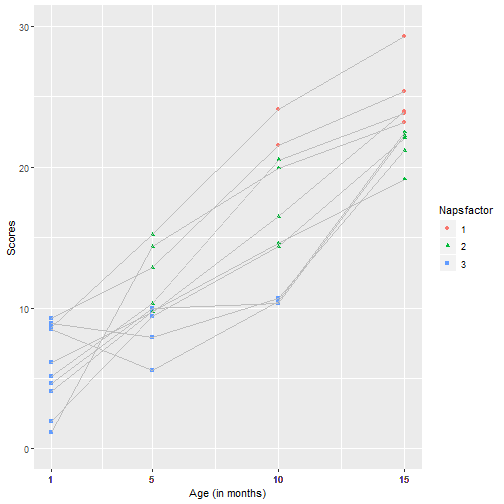
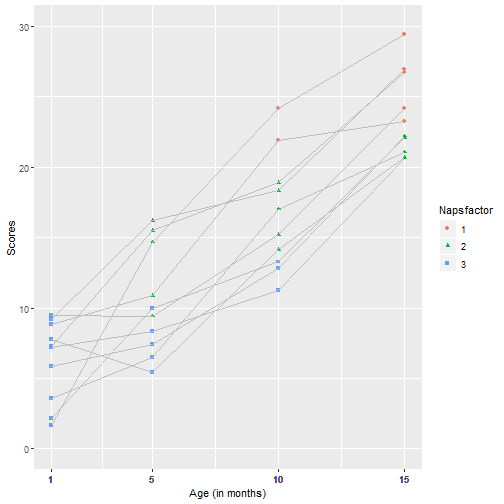
updates

diff --git a/docs/Final_project_presentation.html b/docs/Final_project_presentation.html
@@ -4,7 +4,7 @@
     <title>Using the lme function from the nlme package</title>
     <meta charset="utf-8" />
     <meta name="author" content="Melissa Horger" />
-    <meta name="date" content="2019-05-06" />
+    <meta name="date" content="2019-05-13" />
     <link href="site_libs/remark-css/default.css" rel="stylesheet" />
     <link href="site_libs/remark-css/duke-blue.css" rel="stylesheet" />
     <link href="site_libs/remark-css/middlebury-fonts.css" rel="stylesheet" />
@@ -16,7 +16,7 @@ class: center, middle, inverse, title-slide
 # Using the lme function from the nlme package
 ## A brief tutorial
 ### Melissa Horger
-### 2019-05-06
+### 2019-05-13
 
 ---
 
@@ -62,7 +62,7 @@ class: center, middle
 
 --
 
-2. Lattice
+2. Matrices
 
 --
 
@@ -70,7 +70,7 @@ class: center, middle
 
 --
 
-4. Matrices
+4. Lattice framework
 
 
 --
@@ -187,46 +187,46 @@ print(seconddataset)
 
 ```
 ##    Subs Month Naps secondscores Napsfactor
-## 1     1     1    3     8.888813          3
-## 2     2     1    3     4.624647          3
-## 3     3     1    3     8.456600          3
-## 4     4     1    3     1.924105          3
-## 5     5     1    3     4.094884          3
-## 6     6     1    3     1.145132          3
-## 7     7     1    3     5.129467          3
-## 8     8     1    3     6.146995          3
-## 9     9     1    3     9.244344          3
-## 10   10     1    3     8.625919          3
-## 11    1     5    3     7.900340          3
-## 12    2     5    3     9.975296          3
-## 13    3     5    3     5.581707          3
-## 14    4     5    3     9.391561          3
-## 15    5     5    3     9.744077          3
-## 16    6     5    2    14.366616          2
-## 17    7     5    2    10.314851          2
-## 18    8     5    2     9.696769          2
-## 19    9     5    2    12.854179          2
-## 20   10     5    2    15.204778          2
-## 21    1    10    3    10.659572          3
-## 22    2    10    3    10.349110          3
-## 23    3    10    3    10.455686          3
-## 24    4    10    2    14.340720          2
-## 25    5    10    2    14.605671          2
-## 26    6    10    2    19.940273          2
-## 27    7    10    2    20.517523          2
-## 28    8    10    2    16.485121          2
-## 29    9    10    1    21.528862          1
-## 30   10    10    1    24.077182          1
-## 31    1    15    2    21.174551          2
-## 32    2    15    2    22.244231          2
-## 33    3    15    2    22.505160          2
-## 34    4    15    2    22.064418          2
-## 35    5    15    2    19.153619          2
-## 36    6    15    1    23.158080          1
-## 37    7    15    1    23.823183          1
-## 38    8    15    1    23.934640          1
-## 39    9    15    1    25.403315          1
-## 40   10    15    1    29.329948          1
+## 1     1     1    3     2.134571          3
+## 2     2     1    3     7.186423          3
+## 3     3     1    3     5.868173          3
+## 4     4     1    3     7.750088          3
+## 5     5     1    3     3.592211          3
+## 6     6     1    3     9.442160          3
+## 7     7     1    3     9.167988          3
+## 8     8     1    3     7.300996          3
+## 9     9     1    3     8.799234          3
+## 10   10     1    3     1.646022          3
+## 11    1     5    3     9.996833          3
+## 12    2     5    3     8.316719          3
+## 13    3     5    3     7.399769          3
+## 14    4     5    3     5.388578          3
+## 15    5     5    3     6.497455          3
+## 16    6     5    2     9.419795          2
+## 17    7     5    2    16.218660          2
+## 18    8     5    2    15.491120          2
+## 19    9     5    2    10.877074          2
+## 20   10     5    2    14.665973          2
+## 21    1    10    3    13.272139          3
+## 22    2    10    3    11.255234          3
+## 23    3    10    3    12.822707          3
+## 24    4    10    2    14.140726          2
+## 25    5    10    2    17.009429          2
+## 26    6    10    2    15.210590          2
+## 27    7    10    2    18.342941          2
+## 28    8    10    2    18.907537          2
+## 29    9    10    1    21.929598          1
+## 30   10    10    1    24.168342          1
+## 31    1    15    2    22.116217          2
+## 32    2    15    2    20.643016          2
+## 33    3    15    2    22.212778          2
+## 34    4    15    2    20.680885          2
+## 35    5    15    2    21.066924          2
+## 36    6    15    1    24.159368          1
+## 37    7    15    1    26.916338          1
+## 38    8    15    1    26.734051          1
+## 39    9    15    1    23.284040          1
+## 40   10    15    1    29.429740          1
 ```
 
 ```r
@@ -255,14 +255,14 @@ print(seconddemos)
 ## # Groups:   Month [4]
 ##   Month  Naps mean_secondscore
 ##   &lt;dbl&gt; &lt;dbl&gt;            &lt;dbl&gt;
-## 1     1     3             5.83
-## 2     5     2            12.5 
-## 3     5     3             8.52
-## 4    10     1            22.8 
-## 5    10     2            17.2 
-## 6    10     3            10.5 
-## 7    15     1            25.1 
-## 8    15     2            21.4
+## 1     1     3             6.29
+## 2     5     2            13.3 
+## 3     5     3             7.52
+## 4    10     1            23.0 
+## 5    10     2            16.7 
+## 6    10     3            12.5 
+## 7    15     1            26.1 
+## 8    15     2            21.3
 ```
 
 
@@ -308,11 +308,11 @@ print(secondtabl)
 ```
 
 ```
-##                   Value Std.Error DF    t-value      p-value
-## (Intercept) 17.96414516 4.1653762 27  4.3127306 0.0001926407
-## Month        0.87810509 0.3250063 27  2.7018092 0.0117711968
-## Naps        -4.33033194 1.4663195 27 -2.9531981 0.0064421894
-## Month:Naps  -0.06382412 0.1255996 27 -0.5081555 0.6154710277
+##                  Value Std.Error DF   t-value      p-value
+## (Intercept) 18.1127040 3.5070865 27  5.164601 1.957417e-05
+## Month        0.9633010 0.2801759 27  3.438200 1.914098e-03
+## Naps        -4.2482094 1.2221466 27 -3.476023 1.737268e-03
+## Month:Naps  -0.1103084 0.1081081 27 -1.020353 3.166171e-01
 ```
 
 
@@ -352,6 +352,18 @@ print(secondplot)
 ```
 
 ![](Final_project_presentation_files/figure-html/unnamed-chunk-10-1.png)&lt;!-- --&gt;
+
+
+---
+
+#References
+Curran, P. J., Obeidat, K., &amp; Losardo, D. (2010). Twelve frequently asked questions about growth curve modeling. Journal of Cognition and Development : Official Journal of the Cognitive Development Society, 11(2), 121–136. doi:10.1080/15248371003699969
+
+Maindonald, J. (2007). Chapter 10: Multi-level models and repeated measures. In J. Maindonald &amp; J. Braun (Eds.), Data analysis and graphics using R: An example-based approach. Cambridge: Cambridge University Press.
+
+https://cran.r-project.org/web/packages/nlme/nlme.pdf 
+
+https://rpsychologist.com/r-guide-longitudinal-lme-lmer#longitudinal-two-level-model
     </textarea>
 <style data-target="print-only">@media screen {.remark-slide-container{display:block;}.remark-slide-scaler{box-shadow:none;}}</style>
 <script src="https://remarkjs.com/downloads/remark-latest.min.js"></script>
